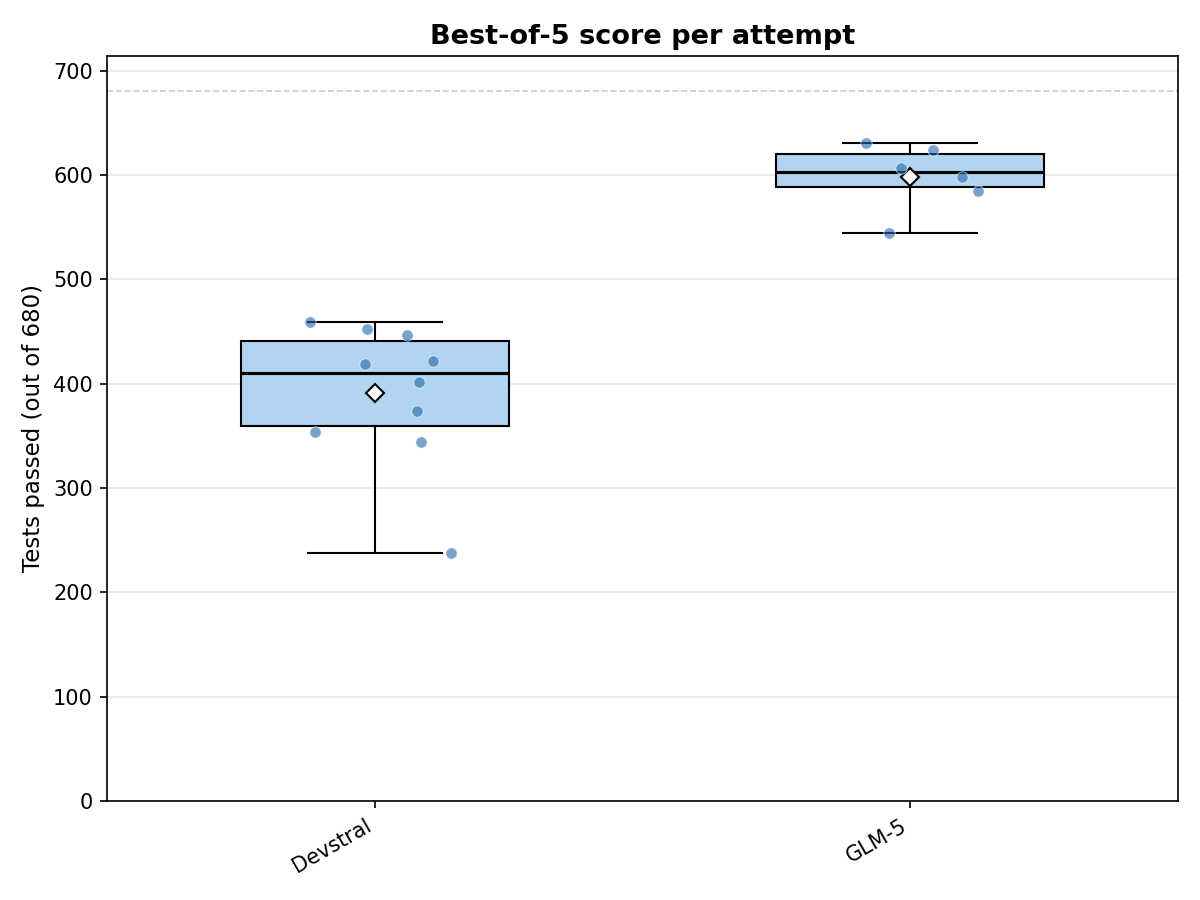
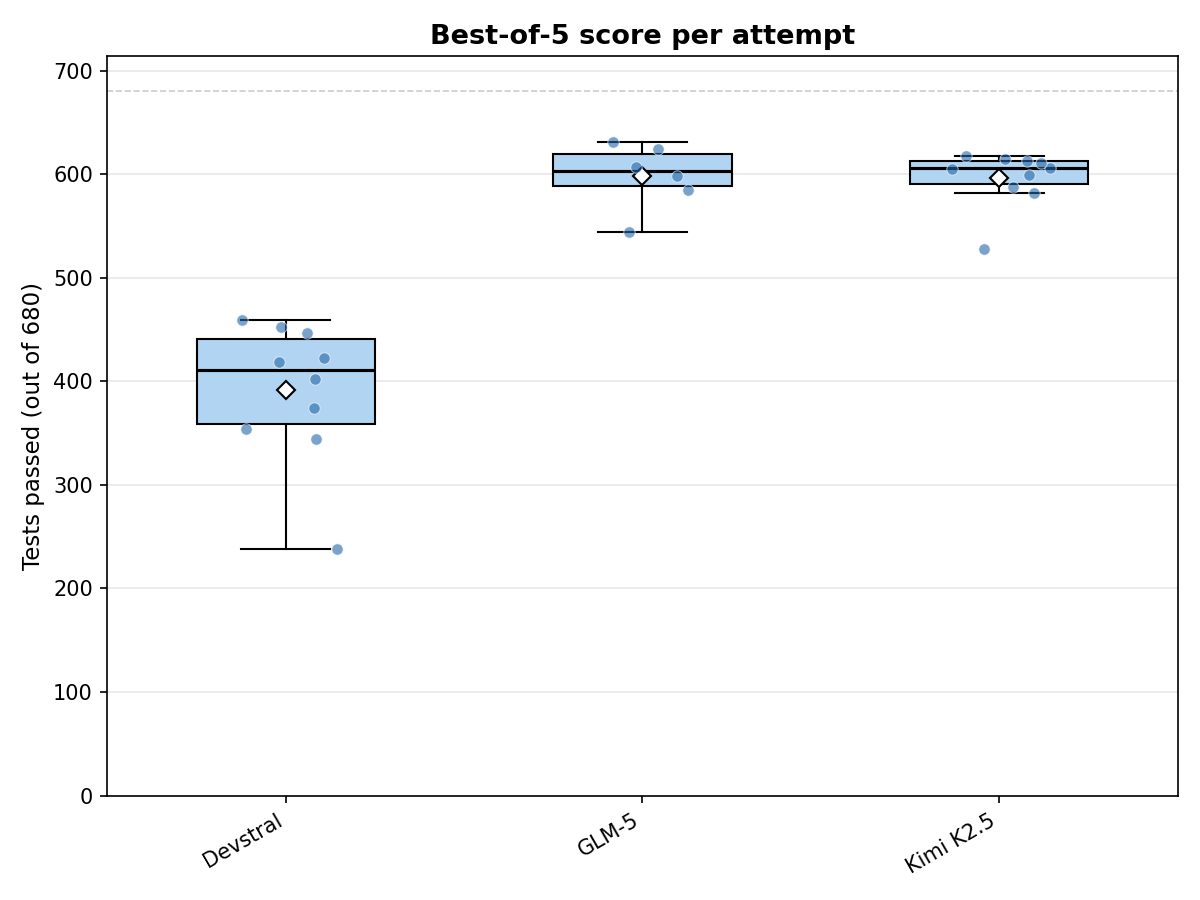
Add Kimi K2.5 toml-1.1-cpp results, now 3 models on 1.1
## New results

- Kimi K2.5 (moonshot/kimi-k2.5) on toml-1.1-cpp: 10 attempts,
  mean best-of-5 87.71% (596.4/680). Attempt 5 is an outlier at
  528/680 (FN=212, model rejected nearly all valid inputs). Otherwise
  consistent in the 582–617 range. Very close to GLM-5's 87.97%.

## Cross-version comparison (toml-1.0-cpp vs toml-1.1-cpp)

  Model      | 1.0 (678 tests) | 1.1 (680 tests) | Delta
  -----------|------------------|------------------|------
  GLM-5      | 91.68%           | 87.97%           | -3.7%
  Kimi K2.5  | 86.97%           | 87.71%           | +0.7%
  Devstral   | 52.49%           | 57.51%           | +5.0%

  GLM-5 shows a slight drop on 1.1 (expected — more features to
  handle). Kimi K2.5 and Devstral are roughly stable across versions,
  suggesting the additional 1.1 features (inline table newlines, \e,
  \xHH escapes, optional datetime seconds) don't significantly change
  their failure modes.

## Updated toml-1.1-cpp leaderboard (best-of-5 mean, 3 models)

  1. GLM-5      87.97%  598.2/680  (6 attempts)
  2. Kimi K2.5  87.71%  596.4/680  (10 attempts)
  3. Devstral   57.51%  391.1/680  (10 attempts)

## Files changed

- results/toml-1.1-cpp/kimi-k2.5/ — new (meta.json, summary.txt)
- results/toml-1.1-cpp/summary.txt — regenerated with 3 models
- results/toml-1.1-cpp/chart.png — regenerated boxplot
- results/STATUS.md — updated Kimi K2.5 toml-1.1-cpp to 10/10

## Next steps

1. Fill toml-1.0-cpp gaps: Claude Sonnet 4.6 (not started), top up
[…]

diff --git a/results/STATUS.md b/results/STATUS.md
@@ -13,7 +13,7 @@ Target: 10 attempts per model per task.
 | GLM-5                | 10/10        | 6/10         |
 | GPT Codex 5.3 (high) | 5/10        | --           |
 | GPT Codex 5.3 (low)  | 7/10        | --           |
-| Kimi K2.5            | 10/10        | --           |
+| Kimi K2.5            | 10/10        | 10/10        |
 | Qwen3.5-122B Q8      | 10/10        | --           |
 
 **Legend:** `N/10` = N attempts completed, `--` = not started
